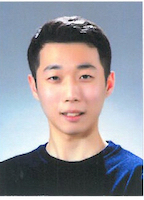
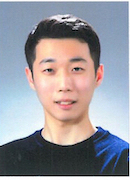
resize profile pictures

diff --git a/people/index.md b/people/index.md
@@ -45,7 +45,7 @@ img.resize {
 </tr></tbody></table>
 <h4>학부연구생 (Current Undergraduates) </h4>
 <table frame="void" border="0" style="width: 1200px;"><tbody><tr><td style="width: 180px;">
-<img class="resize" src="/images/profile_pic.png" alt="윤성9" title="이슬찬" style="font-size: 10px;" />
+<img class="resize" src="/images/profile_pic.png" alt="이슬찬" title="이슬찬" style="font-size: 10px;" />
 </td>
 <td align="left" valign="bottom">
 <p><b>윤성현 (Yoon, Sunghyun)</b></p>
@@ -77,7 +77,6 @@ img.resize {
 </td></tr></tbody></table>
 
 <h4>졸업생 (Former Group Members) </h4>
-
 <table frame="void" border="0" style="width: 1200px;"><tbody><tr><td style="width: 180px;">
 <img class="resize" src="/images/profile_pic.png" style="font-size: 10px;" />
 </td>
